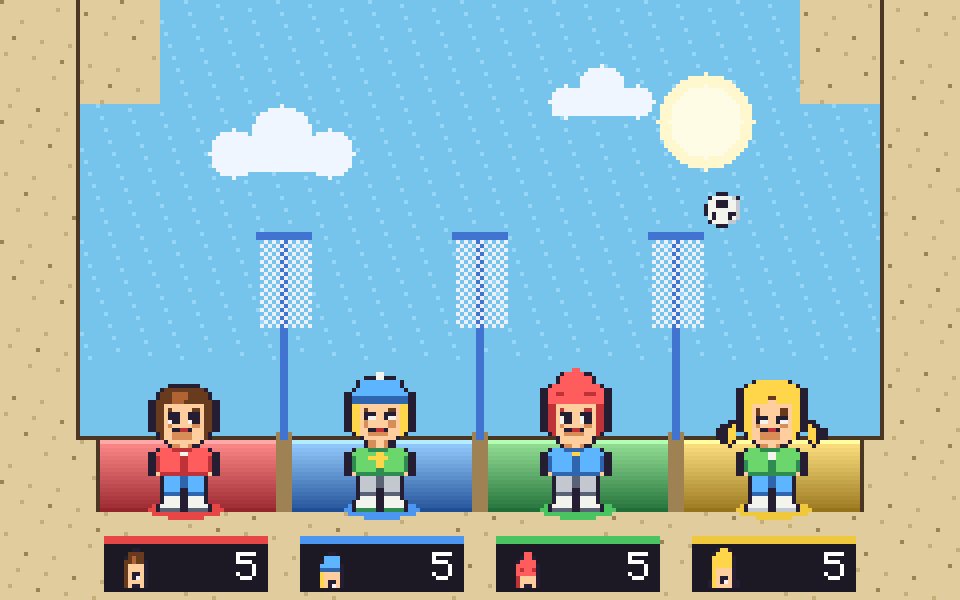
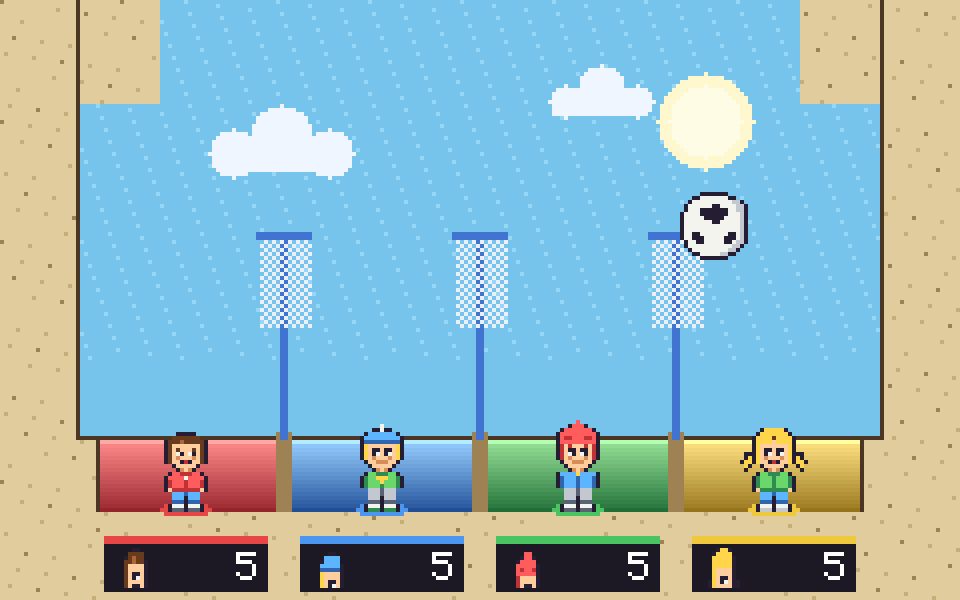
Slime Volley mockup: smaller players + bigger ball for a roomier court
Tuned for a horizontal screen — shrink the defenders and enlarge the
beach ball so each player's area reads big and open.

Claude-Session: https://claude.ai/code/session_01BmHu9ZjHHfJoGBLXT33Kpc

diff --git a/art/volley.py b/art/volley.py
@@ -115,17 +115,17 @@ def scene(count):
             for x in range(dx - 6, dx + 7):
                 if (x + y) % 2 == 0: setpx(px, W, H, x, y, NETW)
         fill(px, W, H, dx - 7, NET_TOP - 2, dx + 7, NET_TOP, NETP)         # top band
-    # players standing at the bottom of their pit
+    # players standing at the bottom of their pit (kept SMALL so the court feels big)
     for i in range(count):
         cx = int(PX0 + (i + 0.5) * zoneW)
         rim, body, deep = ZONE[i]
         # coloured pad
-        for yy in range(-2, 3):
-            for xx in range(-9, 10):
-                if (xx / 9) ** 2 + (yy / 2.4) ** 2 <= 1: setpx(px, W, H, cx + xx, FLOOR_BOT - 1 + yy, body)
-        fighter(img, ZNAMES[i], cx, FLOOR_BOT, scale=1.25, flip=(i % 2 == 1))
-    # the ball, arcing over a net toward someone's hole
-    ball(img, int(PX0 + zoneW * (count - 0.7)), 52, r=7)
+        for yy in range(-2, 2):
+            for xx in range(-6, 7):
+                if (xx / 6) ** 2 + (yy / 2.0) ** 2 <= 1: setpx(px, W, H, cx + xx, FLOOR_BOT - 1 + yy, body)
+        fighter(img, ZNAMES[i], cx, FLOOR_BOT, scale=0.8, flip=(i % 2 == 1))
+    # the BIG beach ball, arcing over a net toward someone's hole
+    ball(img, int(PX0 + zoneW * (count - 0.7)), 56, r=13)
     # score chips along the bottom sand
     for i in range(count):
         cx = int(PX0 + (i + 0.5) * zoneW); bw2 = int(zoneW) - 8
